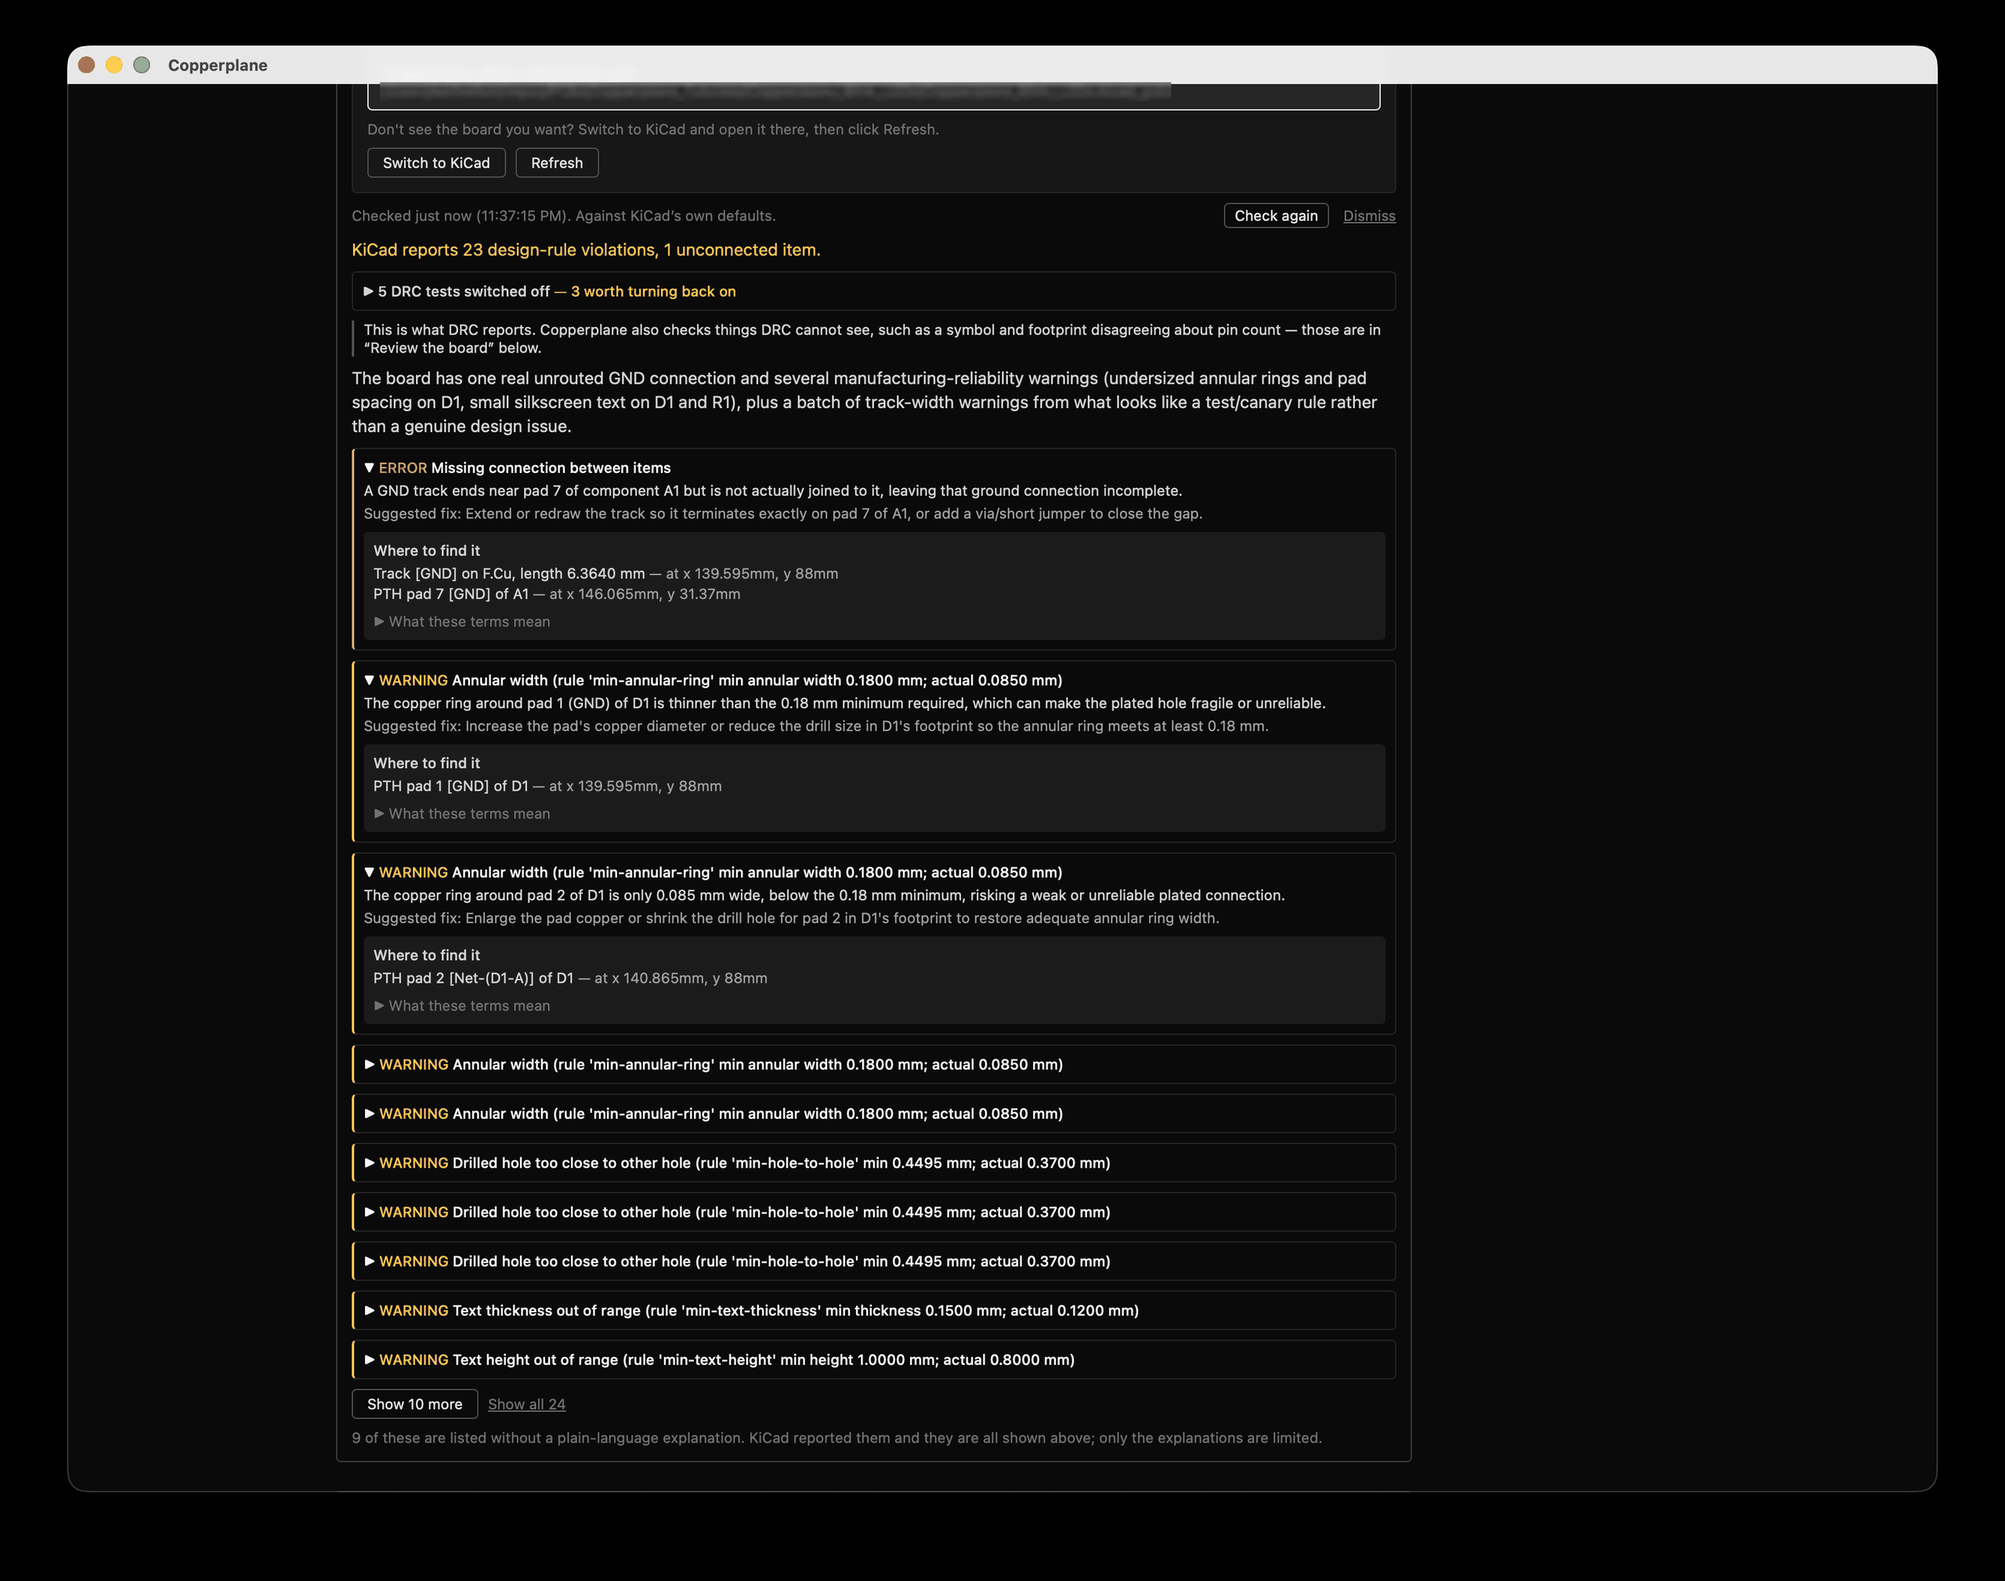
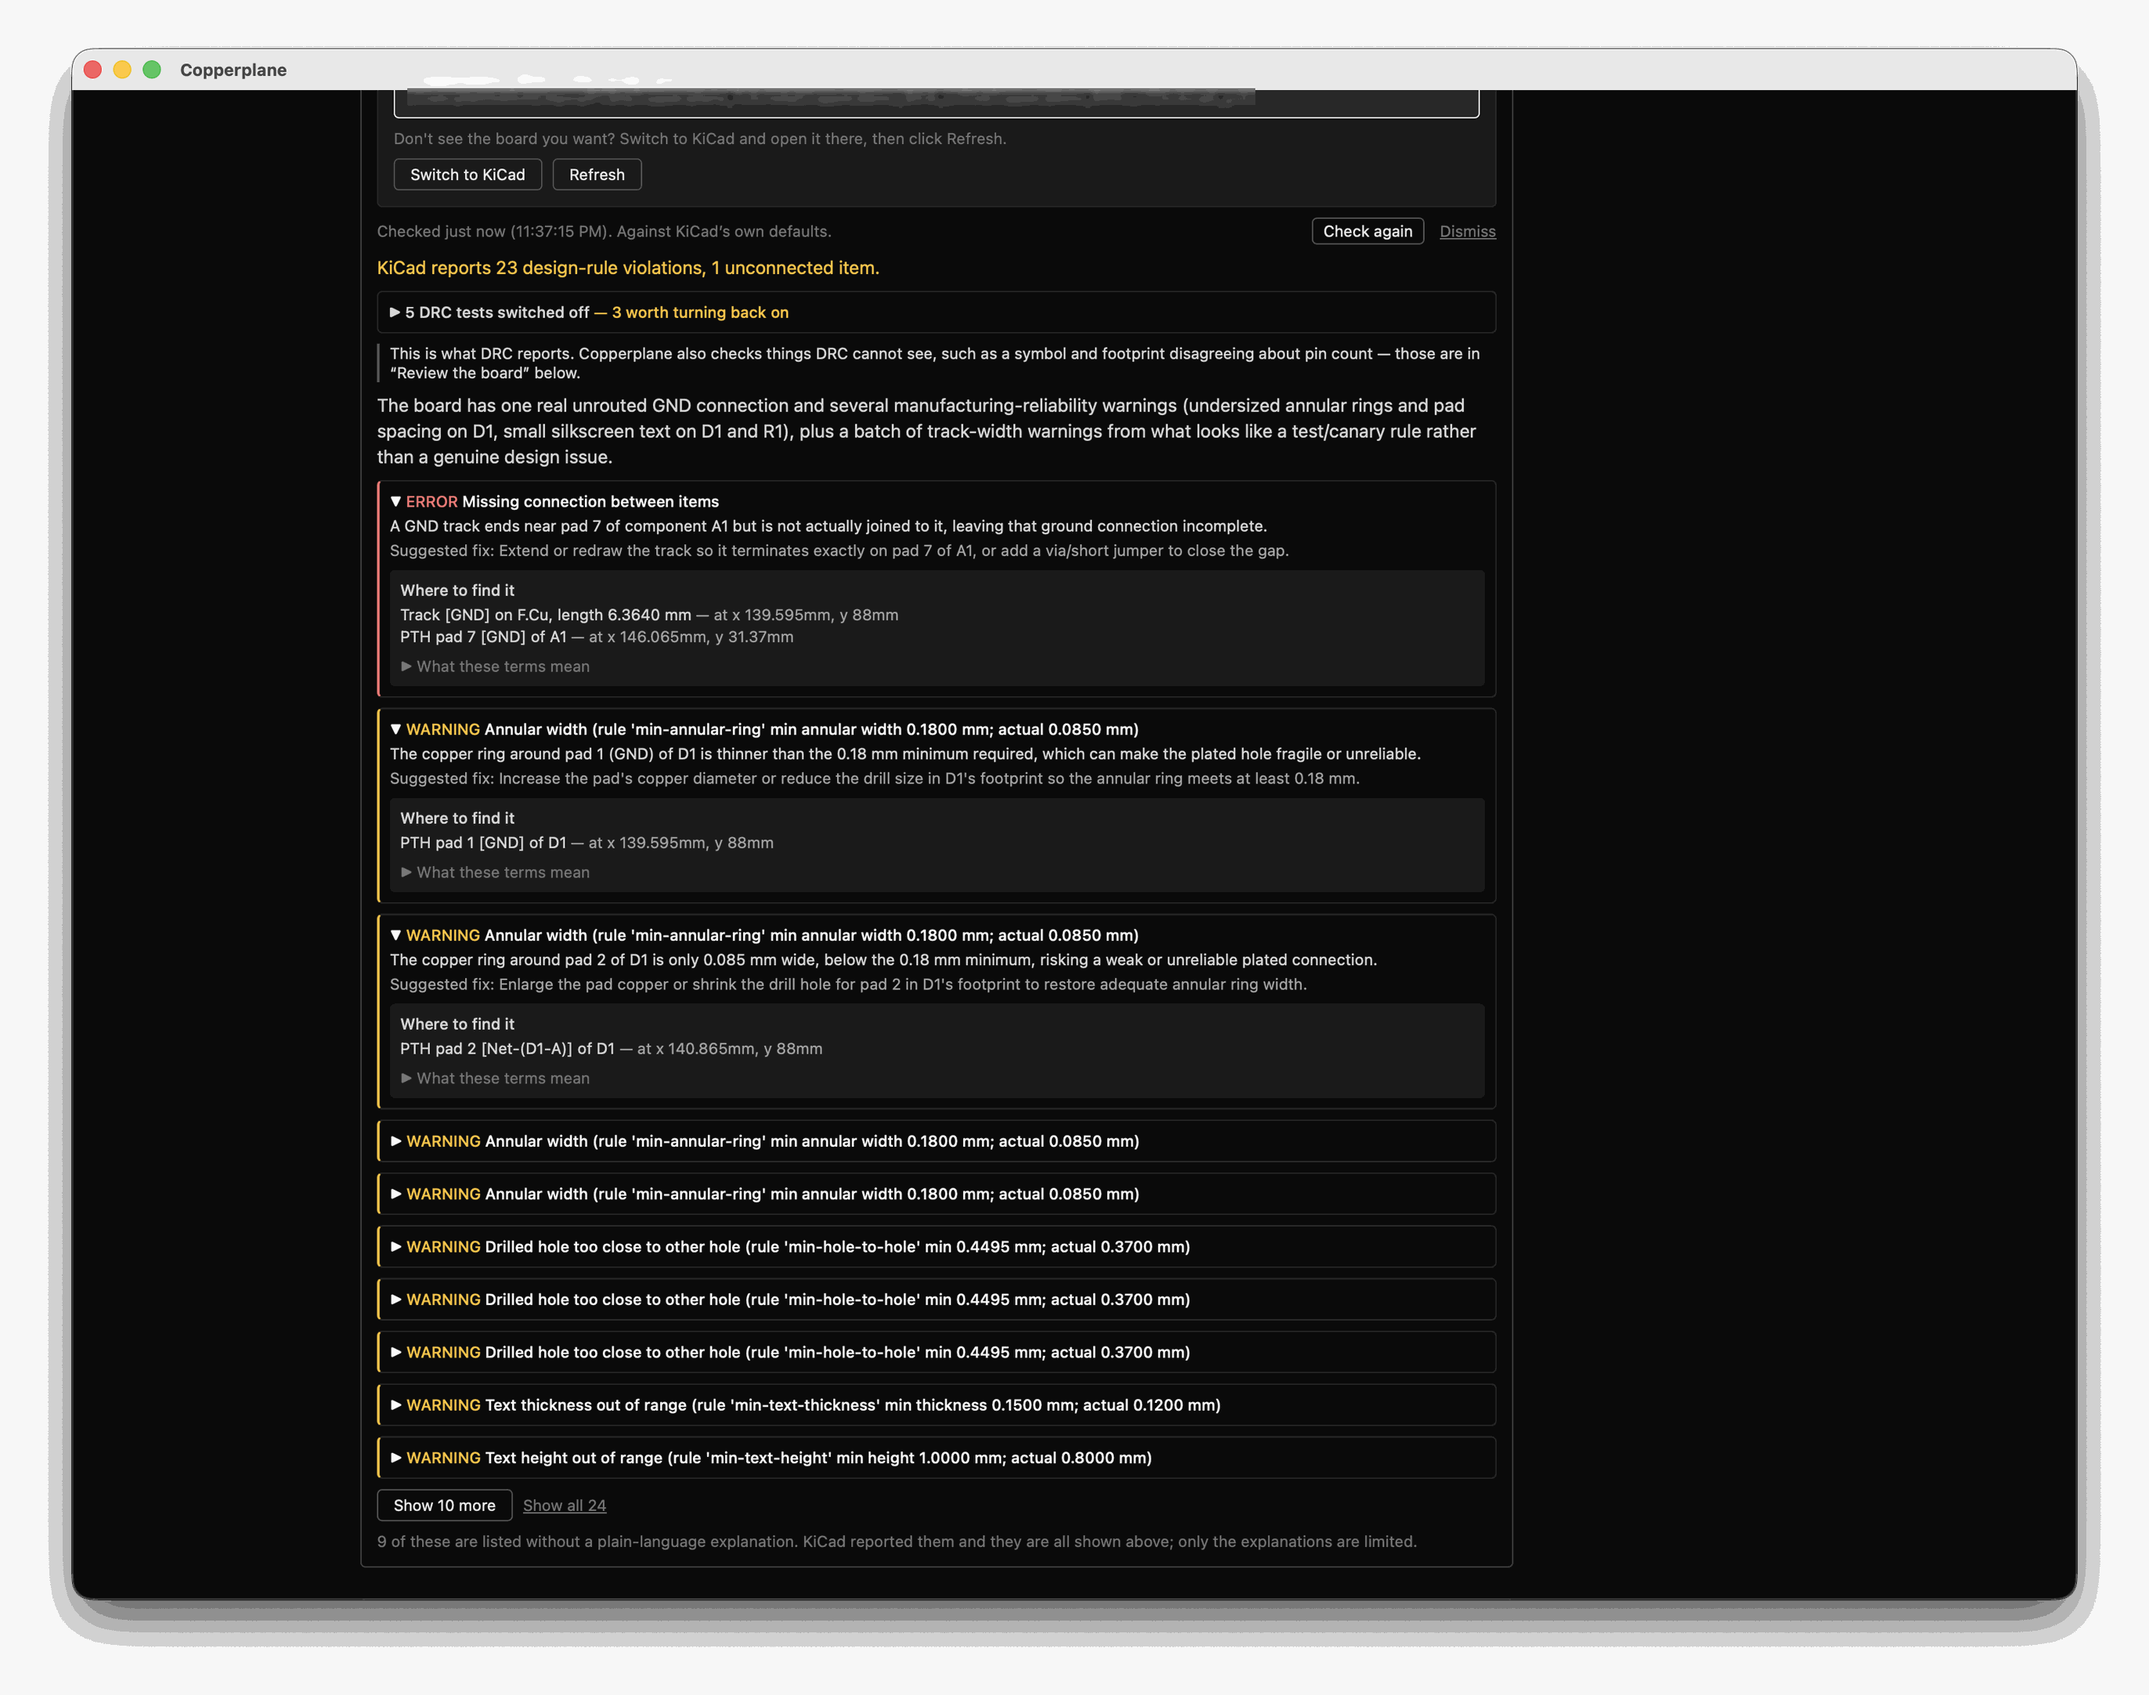
docs(SPEC-408): let the screenshots float on the page instead of blocking it (#457)
* docs(SPEC-408): let the screenshots float on the page instead of blocking it

Every image was flattened onto black, so on a light page each one read as a
heavy dark rectangle. macOS had already captured the answer and I had been
throwing it away: Cmd+Shift+4 plus Space captures the window on a
transparent surround with its own soft drop shadow.

Keeping it means one file looks right in both themes -- the window floats
on whatever the page background is -- with no reshooting and no light/dark
pairs. It is also smaller: the shadow gradient palettes better than a
full-bleed dark rectangle, so nothing here exceeds 250KB where flattened
versions ran to 500KB and needed 48-colour palettes to fit.

The redaction script was dropping the alpha. redact() called convert("RGB")
unconditionally, so nine of twenty-three images came back flattened and
fourteen kept their shadow, from one run. Blurring still happens in RGB --
pixelating an alpha channel would eat the gradient -- and the channel is
reattached afterwards.

Two images are from the 2026-09-04 session, which captured windows already
cropped to their own edges. Rather than reshoot two screens that are still
accurate, both were given a shadow measured off a real capture rather than
guessed: the native one ramps over 111px and so does theirs.

The CSS border goes with it. It existed because a flattened window bleeds
into a same-toned background; a shadow is a better edge, and a border would
[…]

Changed region(s): [[0.0, 0.0, 1.0, 1.0], [0.2812, 0.156, 0.375, 0.1872], [0.1875, 0.2808, 0.2188, 0.312]]

diff --git a/docs/site/src/styles/custom.css b/docs/site/src/styles/custom.css
@@ -27,9 +27,16 @@
   --sl-color-accent-high: #0b5c34; /* Solder mask */
 }
 
-/* Screenshots of a desktop app need a visible edge or they bleed into the
-   page background in whichever theme has the same tone. */
+/* Screenshots carry their own edge.
+   
+   These used to get a 1px border, because a window flattened onto black bleeds
+   into whichever theme shares its tone. They are no longer flattened: each one
+   keeps the transparent surround and soft drop shadow that macOS captured, so
+   the window floats on the page's own background -- light or dark -- and the
+   shadow is the edge.
+   
+   A border here would now draw a rectangle around the SHADOW rather than the
+   window, which is worse than having none. */
 .sl-markdown-content img {
-  border: 1px solid var(--sl-color-gray-5);
-  border-radius: 4px;
+  border: 0;
 }

diff --git a/scripts/redact_screenshots.py b/scripts/redact_screenshots.py
@@ -86,6 +86,15 @@ def find_boxes(grey, secret):
 
 
 def redact(image, boxes, pad=4):
+    # A macOS window capture is RGBA: the window sits on a transparent surround
+    # with its own drop shadow. Blurring has to happen in RGB -- pixelating an
+    # alpha channel would eat the shadow's gradient -- but the transparency has
+    # to survive the round trip, or every redacted shot comes back flattened
+    # onto black while the ones with nothing to redact keep their shadow.
+    #
+    # That is exactly what happened on 2026-09-12: nine of twenty-three images
+    # came out opaque and fourteen did not, from one run.
+    alpha = image.getchannel("A") if image.mode == "RGBA" else None
     out = image.convert("RGB")
     for x, y, w, h in boxes:
         box = (max(0, x - pad), max(0, y - pad),
@@ -95,6 +104,9 @@ def redact(image, boxes, pad=4):
             (max(1, region.width // 12), max(1, region.height // 6)), Image.BILINEAR
         ).resize(region.size, Image.NEAREST)
         out.paste(pixelated.filter(ImageFilter.GaussianBlur(3)), box)
+    if alpha is not None:
+        out = out.convert("RGBA")
+        out.putalpha(alpha)
     return out
 
 

diff --git a/docs/site/SCREENSHOTS.md b/docs/site/SCREENSHOTS.md
@@ -78,26 +78,32 @@ changes the guide.
 
 ## The pipeline the raw captures need
 
-Recorded because the raw captures do **not** match the set already here, and finding that out costs
+Recorded because the raw captures do **not** match what the site wants, and finding that out costs
 an hour.
 
 1.  **Redact first, at full resolution.** `scripts/redact_screenshots.py` needs `pytesseract`, which
     is in none of this repo's virtualenvs — and must not be added to `.build-venv`, which is what
-    freezes the shipped sidecar. Make a throwaway venv outside the repo. Of the fifteen shots
-    processed on 2026-09-12, **six** carried the username.
-2.  **Crop away the drop shadow.** `Cmd+Shift+4` + Space captures a soft shadow and a transparent
-    surround; nothing already in `public/images/` has either. The window is where alpha is fully
-    opaque — crop to that bounding box, then flatten onto black.
-3.  **Resize to 2560 wide**, which is what the existing images are.
-4.  **Save as a palette PNG.** A flat dark UI loses nothing visible. 256 colours suits most shots;
-    text-dense screens need fewer to come down — 128 for `schematic-erc`, 96 for `design-guidance`,
-    64 for `ask-the-agent`. Check the small grey body text at 1:1 for banding before accepting it;
-    at 64 colours it was still crisp.
+    freezes the shipped sidecar. Make a throwaway venv outside the repo.
+2.  **Keep the alpha.** `Cmd+Shift+4` + Space captures the window on a **transparent surround with a
+    soft drop shadow**, and that is the thing that makes a screenshot sit on a light page as
+    comfortably as a dark one. Do not flatten it.
+3.  **Scale so the WINDOW is 2560 wide**, not the image. Normalising the whole image instead means a
+    capture with a bigger shadow gets a smaller app inside it.
+4.  **Save as a palette PNG with transparency.** `quantize(method=FASTOCTREE)` keeps the alpha;
+    `convert('P')` does not. A flat dark UI loses nothing visible, and the shadow gradient palettes
+    *better* than a full-bleed dark rectangle — every image here is under 250KB, where flattened
+    ones ran to 500KB and needed 48-colour palettes to fit.
 
-`ask-the-agent.png` is the extreme case: a full agent answer, so nearly the whole frame is small
-text. Retaken 2026-09-12 with the answer fitting in one window, and it needs **48 colours** to come
-in at 379KB. Checked at 1:1 — the text is still crisp there, and a dark UI with light text has far
-fewer distinct colours than the palette count suggests.
+## Two shots have a synthesised shadow
+
+`settings.png` and `new-project-review.png` come from the 2026-09-04 session, which captured windows
+already cropped to their own edges — square corners, no shadow, no transparency. Rather than reshoot
+two screens that are still accurate, both were given a shadow built to match the real ones:
+**20px corner radius, 34px blur, 18px downward offset**, measured off a genuine capture rather than
+guessed. The native shadow ramps over 111px; the synthetic one ramps over 111px.
+
+If either is ever recaptured the synthetic shadow should go — a real one is always better than a
+matched one.
 
 ## Dark theme, everywhere
 

diff --git a/context/CTX-408.5-docs-catch-up.md b/context/CTX-408.5-docs-catch-up.md
@@ -181,3 +181,39 @@ images — everything **about** a page except whether what it says is true. That
     then it said "Fifteen images" in a document listing eighteen. A file whose job is to track what
     is out of date had gone out of date, which is an argument for `TEST-001` covering prose that
     makes checkable claims, not only published pages.
+
+
+---
+
+## 5. Follow-up, 2026-09-12: the redactor was destroying the thing that made the shots usable
+
+Every screenshot was flattened onto black, so on the site's light theme each one read as a heavy dark
+rectangle. The fix needed no reshooting: `Cmd+Shift+4` + Space already captures the window on a
+**transparent surround with its own soft drop shadow**, and keeping it means one file sits correctly
+on a light page and a dark one.
+
+**`scripts/redact_screenshots.py` was silently preventing that.** `redact()` called
+`convert("RGB")` unconditionally, so the alpha channel survived only on images it did not touch —
+**nine of twenty-three came back flattened and fourteen kept their shadow, from a single run.**
+
+That is the interesting shape of it. A tool that broke *every* image would have been noticed the
+first time. One that breaks only the images it modifies produces a set that is mostly fine, and the
+inconsistency reads as a capture problem rather than a tooling one. It had been doing this since the
+script was written; nothing depended on the alpha until now.
+
+Blurring still happens in RGB — pixelating an alpha channel would eat the shadow's gradient — and the
+channel is reattached afterwards.
+
+**Two shots could not be fixed this way and were not reshot.** `settings.png` and
+`new-project-review.png` come from the 2026-09-04 session, which captured windows already cropped to
+their own edges: square corners, no transparency, nothing to preserve. Both are still accurate, so
+rather than ask for a recapture they were given a shadow **measured off a real one** — 20px corner
+radius, 34px blur, 18px downward offset. The native shadow ramps over 111px and so does the
+synthetic one, which is the check that it matches rather than merely looks plausible.
+
+Recorded in `SCREENSHOTS.md` so a future recapture removes the synthetic shadow rather than leaving
+it under a real window.
+
+**It is also smaller.** Nothing in the set now exceeds 250KB, where flattened versions reached 500KB
+and needed 48-colour palettes to fit — a shadow gradient palettes better than a full-bleed dark
+rectangle. The size limit that had felt tight was an artefact of throwing the transparency away.
